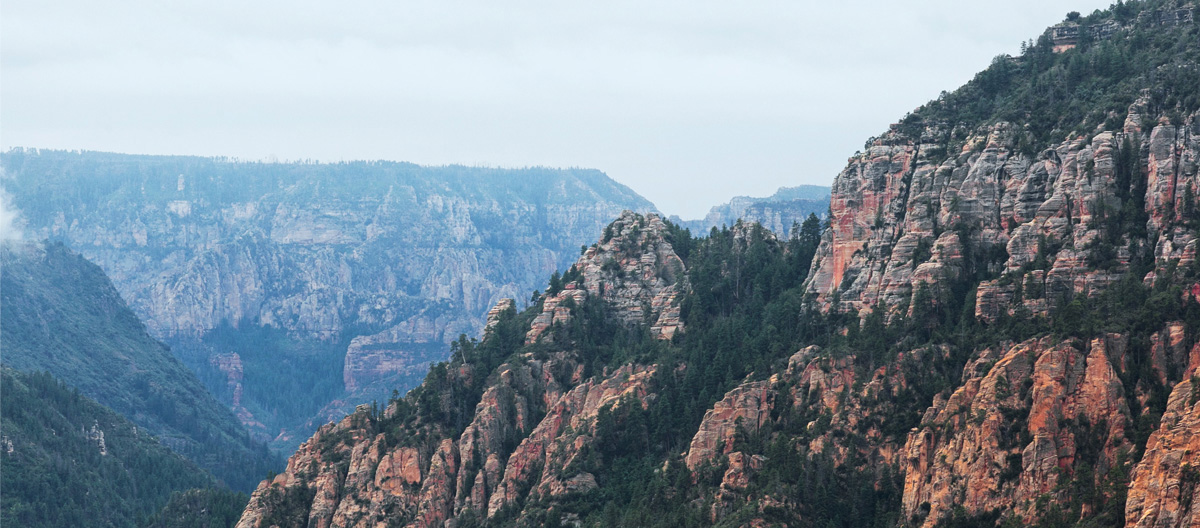
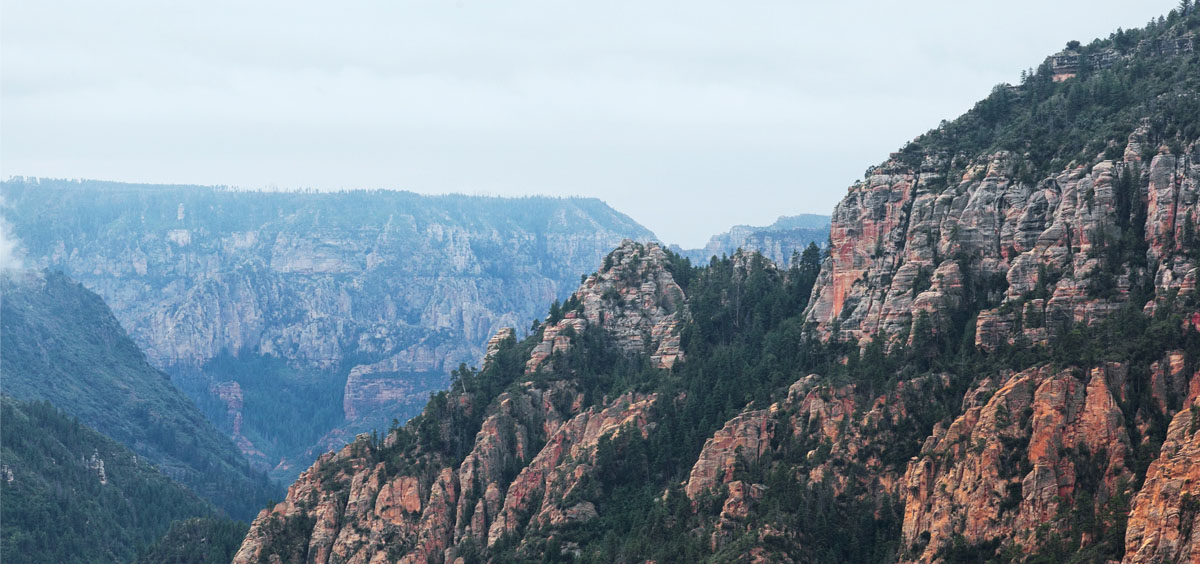
1

diff --git a/css/style.css b/css/style.css
@@ -105,8 +105,8 @@ a {
   align-items: center;
   min-height: 724px;
   margin: 0 auto;
-  background: url("../img/main-intro.jpg") no-repeat;
-  background-position: 0% -24px;
+  background: url("../img/main-intro3.jpg") no-repeat;
+  background-position: 0% -54px;
   padding-top: 76px;
 }
 
